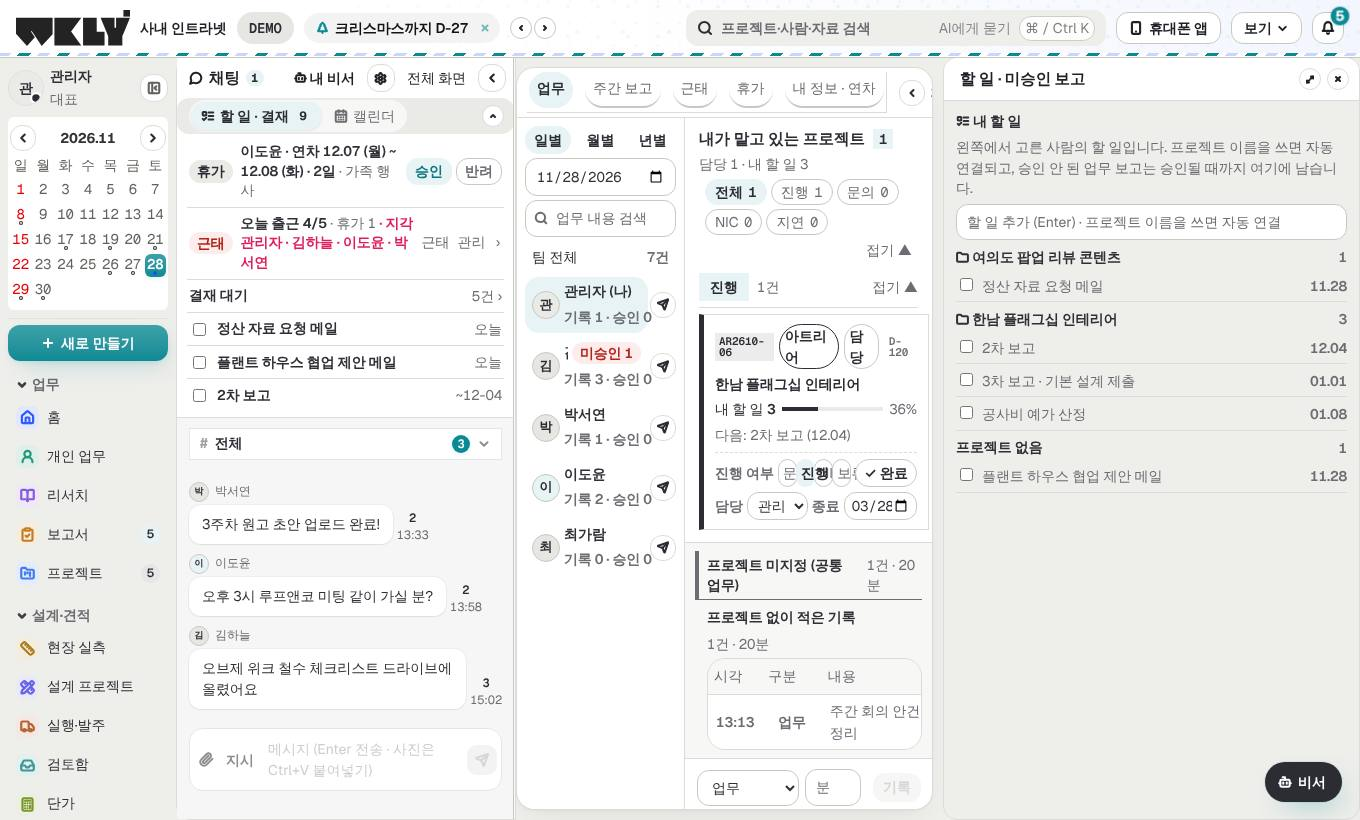
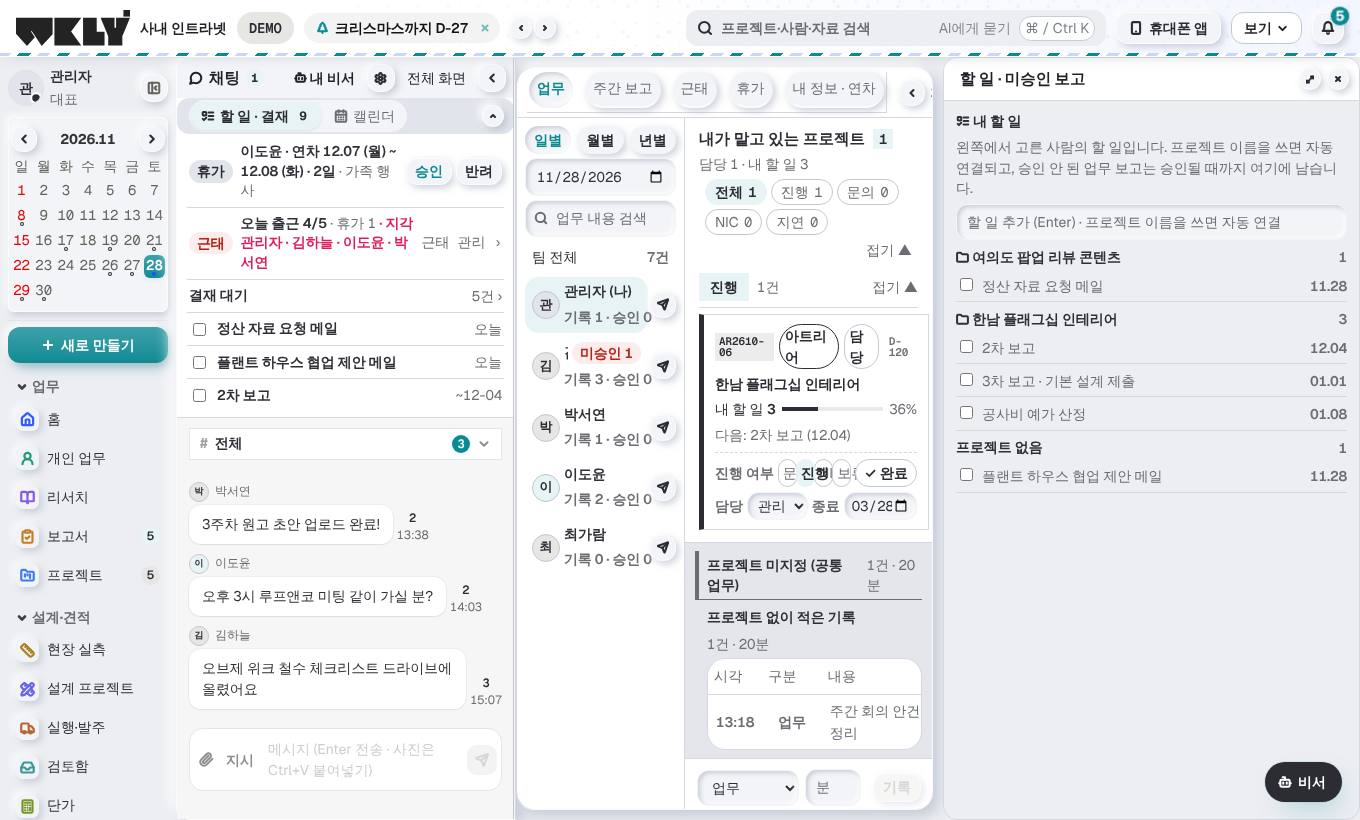
디자인 v9 볼록 · 오목: 빛과 그림자로 구분 · 구간 알약 · 스위치
- 카드 · 버튼은 떠 있는 모양, 입력 칸 · 고른 것은 눌린 모양 (--nm-up / --nm-in)
- 구간 고르기는 회색 홈 + 흰 알약, 켜고 끄는 설정은 스위치(nm-switch)
- 대시보드 점 격자 색 되살림, 사용 안내 사진 다시 찍음

Claude-Session: https://claude.ai/code/session_01F3gTQwJrgJEzSdbh5GAwru

diff --git a/erp/src/mono.css b/erp/src/mono.css
@@ -215,3 +215,68 @@ html:not([data-theme="dark"]) .ads-subnav button.active { background: var(--v9-a
 html:not([data-theme="dark"]) .ads-segment { gap: 2px; padding: 3px; border: 1px solid var(--v8-line-2); border-radius: 12px; background: var(--v8-bg); }
 html:not([data-theme="dark"]) .ads-segment button { border: 0 !important; border-radius: 9px; background: transparent; color: var(--tx-sub); min-height: 30px; }
 html:not([data-theme="dark"]) .ads-segment button:is(.active, .on, [aria-pressed="true"], [aria-selected="true"]) { background: var(--v9-accent) !important; color: #fff !important; box-shadow: var(--glow-1); }
+
+/* ================================================================================
+   볼록 · 오목 (뉴모피즘 · 대표가 2026-11-28 참고 그림으로 고름: 같은 회색 면 위에 밝은 빛(왼쪽 위) + 그림자(오른쪽 아래)로 떠 있거나 눌린 모양)
+   - 떠 있는 것(--nm-up): 카드 · 버튼 · 고른 탭.  눌린 것(--nm-in): 입력 칸 · 구간 고르기 홈 · 고른 칩 · 누르는 순간
+   - 면 색은 바탕과 거의 같게(--nm-face), 구분은 선 대신 빛과 그림자. 색은 메뉴 색(--v9-accent)을 작은 곳에만
+   ================================================================================ */
+html:not([data-theme="dark"]) {
+  --nm-bg: #eceef2; --nm-face: #f3f4f7; --nm-hi: rgba(255, 255, 255, .95); --nm-lo: rgba(158, 166, 184, .5);
+  --nm-up: 6px 6px 14px var(--nm-lo), -6px -6px 14px var(--nm-hi);
+  --nm-up-sm: 3px 3px 7px var(--nm-lo), -3px -3px 7px var(--nm-hi);
+  --nm-in: inset 3px 3px 6px var(--nm-lo), inset -3px -3px 6px var(--nm-hi);
+  --nm-in-sm: inset 2px 2px 4px var(--nm-lo), inset -2px -2px 4px var(--nm-hi);
+  --v8-bg: var(--nm-bg); --paper: #e4e6eb; --v8-line: #d5d8df; --v8-line-2: #c3c7d0; --v8-tint: #e1e4ea; --v8-hover: #e1e4ea;
+  --v8-shadow: var(--nm-up-sm); --yellow: #e1e4ea; --blue-tint: #e1e4ea;
+}
+html:not([data-theme="dark"]) body, html:not([data-theme="dark"]) .app-page { background: var(--nm-bg); }
+html:not([data-theme="dark"]) .app-page .topbar { background: var(--nm-bg); box-shadow: 0 6px 14px -8px var(--nm-lo); }
+html:not([data-theme="dark"]) .app-page :is(.main, .web-panel, .chat-dock) { background: var(--nm-face); border: 1px solid rgba(255, 255, 255, .7); box-shadow: var(--nm-up); }
+html:not([data-theme="dark"]) :is(.chat-dock-h, .right-sched, .right-tabs) { background: transparent; }
+/* 떠 있는 카드 */
+html:not([data-theme="dark"]) :is(.box, .stat, .kpi, .card, .home-kpi, .today-card, .checkin-card, .brief, .rd-box, .pc-card, .proj-card, .pboards-item, .week-day, .div-card, .ad-pcard, .dash-kpi, .dash-card, .mini-cal, .home-hero) { background: var(--nm-face) !important; border: 1px solid rgba(255, 255, 255, .7) !important; box-shadow: var(--nm-up-sm); }
+html:not([data-theme="dark"]) :is(.dash-kpi-l, .dash-kpi b, .dash-spark) { background: transparent; }
+html:not([data-theme="dark"]) .dash-body { background: var(--nm-face); border: 0; box-shadow: var(--nm-in-sm); }
+html:not([data-theme="dark"]) :is(a.home-kpi, a.dash-kpi, .pc-card, .pboards-item, .proj-card):hover { box-shadow: var(--nm-up); border-color: rgba(255, 255, 255, .7) !important; }
+html:not([data-theme="dark"]) :is(.dash-kpi.is-key, .week-day.today) { border-color: rgba(255, 255, 255, .7) !important; box-shadow: var(--nm-up-sm), 8px 10px 26px -10px color-mix(in srgb, var(--v9-accent) 55%, transparent); }
+/* 버튼: 떠 있다가 누르면 들어감 */
+html:not([data-theme="dark"]) :is(.btn, .icon-btn, .quick-btn, .chip, .ads-nav button.active, .dock-fold) { box-shadow: var(--nm-up-sm); border-color: rgba(255, 255, 255, .7) !important; }
+html:not([data-theme="dark"]) :is(.btn-outline, .btn-ghost, .icon-btn, .quick-btn, .chip):not(.active):not(.on) { background: var(--nm-face); color: var(--v9-ink); }
+html:not([data-theme="dark"]) :is(.btn, .icon-btn, .quick-btn, .chip):active { box-shadow: var(--nm-in-sm); transform: none; }
+html:not([data-theme="dark"]) :is(.btn-outline, .btn-ghost):hover:not(:disabled) { background: var(--nm-face); color: var(--v9-accent); }
+html:not([data-theme="dark"]) :is(.btn-primary, .new-btn, .today-ok, .btn.primary):not(:disabled) { box-shadow: var(--nm-up-sm), 4px 6px 16px -6px color-mix(in srgb, var(--v9-accent) 60%, transparent); }
+html:not([data-theme="dark"]) :is(.btn-blue, .btn-yellow, .send-btn):not(:disabled) { background: var(--nm-face); color: var(--v9-accent); }
+html:not([data-theme="dark"]) :is(.btn-blue, .btn-yellow, .send-btn):not(:disabled):hover { box-shadow: var(--nm-up-sm), 4px 6px 16px -6px color-mix(in srgb, var(--v9-accent) 60%, transparent); }
+/* 고른 것 · 입력 = 눌린 모양 */
+html:not([data-theme="dark"]) :is(.chip.active, .chip.on, .seg button.on, .right-tabs button.on, .ads-subnav button.active) { background: var(--nm-face) !important; box-shadow: var(--nm-in-sm) !important; color: var(--v9-accent) !important; border-color: transparent !important; }
+html:not([data-theme="dark"]) :is(.input, .select, .textarea, input[type="text"], input[type="search"], input[type="date"], input[type="number"], input[type="password"], input[type="email"], select, textarea) { background: var(--nm-face); border-color: transparent !important; box-shadow: var(--nm-in-sm); }
+html:not([data-theme="dark"]) :is(.ads-nav, .ads-segment) { background: var(--nm-face); border-color: transparent; box-shadow: var(--nm-in-sm); }
+html:not([data-theme="dark"]) .ads-nav button.active { background: var(--nm-face); }
+html:not([data-theme="dark"]) .ads-segment button:is(.active, .on) { box-shadow: var(--nm-up-sm), 3px 4px 10px -4px color-mix(in srgb, var(--v9-accent) 60%, transparent); }
+/* 왼쪽 메뉴 */
+html:not([data-theme="dark"]) .app-page .profile .side-item > svg { background: var(--nm-face); box-shadow: var(--nm-up-sm); }
+html:not([data-theme="dark"]) .app-page .profile .side-item.on { background: var(--nm-face); border-color: transparent; box-shadow: var(--nm-in-sm); }
+html:not([data-theme="dark"]) .app-page .profile .side-item.on > svg { background: var(--mc); box-shadow: 3px 4px 10px -3px color-mix(in srgb, var(--mc) 60%, transparent); }
+/* 표 · 줄 · 막대 */
+html:not([data-theme="dark"]) :is(.table, .board, .pay-grid) thead th { background: transparent; }
+html:not([data-theme="dark"]) :is(.table, .board) tbody tr:hover { background: #e4e7ed; }
+html:not([data-theme="dark"]) :is(.week-item, .dash-ev, .dash-d) { background: var(--nm-face); box-shadow: var(--nm-in-sm); }
+html:not([data-theme="dark"]) :is(.meter, .pc-bar, .dash-prog) { background: var(--nm-face); box-shadow: var(--nm-in-sm); }
+html:not([data-theme="dark"]) :is(.dialog, .modal, .top-menu-pop) { background: var(--nm-face); border: 1px solid rgba(255, 255, 255, .7); box-shadow: 14px 14px 34px var(--nm-lo), -10px -10px 28px var(--nm-hi); }
+html:not([data-theme="dark"]) .scrim { background: rgba(232, 234, 239, .6); }
+
+/* 흰 패널 참고 그림(2026-11-28 '이것도 넣어'): 구간 고르기 = 회색 홈 + 흰 알약 · 스위치 · 둥근 손잡이 */
+html:not([data-theme="dark"]) :is(.ads-segment, .seg, .right-tabs) { display: inline-flex; gap: 2px; padding: 3px; border: 0; border-radius: 999px; background: #dfe2e8; box-shadow: var(--nm-in-sm); }
+html:not([data-theme="dark"]) .right-tabs { display: flex; }
+html:not([data-theme="dark"]) :is(.ads-segment, .seg, .right-tabs) button { border: 0 !important; border-radius: 999px; background: transparent !important; color: var(--tx-sub) !important; box-shadow: none !important; }
+html:not([data-theme="dark"]) :is(.ads-segment, .seg, .right-tabs) button:is(.active, .on) { background: #fff !important; color: var(--v9-ink) !important; font-weight: 600; box-shadow: 1px 2px 5px rgba(120, 128, 148, .45) !important; }
+html:not([data-theme="dark"]) .dash-day { background: var(--nm-face); border-color: rgba(255, 255, 255, .7); box-shadow: var(--nm-up-sm); }
+/* 스위치: <input type="checkbox" class="nm-switch"> — 켜면 먹색 홈 + 흰 손잡이 */
+input[type="checkbox"].nm-switch { appearance: none; -webkit-appearance: none; position: relative; width: 44px; height: 24px; margin: 0; border: 0; border-radius: 999px; background: #dfe2e8; box-shadow: var(--nm-in-sm, inset 0 1px 3px rgba(0, 0, 0, .2)); cursor: pointer; vertical-align: middle; transition: background-color .2s ease; flex: none; }
+input[type="checkbox"].nm-switch::after { content: ''; position: absolute; top: 2px; left: 2px; width: 20px; height: 20px; border-radius: 50%; background: #fff; box-shadow: 1px 2px 5px rgba(120, 128, 148, .55); transition: transform .2s ease; }
+input[type="checkbox"].nm-switch:checked { background: var(--v9-ink, #2b2d33); }
+input[type="checkbox"].nm-switch:checked::after { transform: translateX(20px); }
+input[type="checkbox"].nm-switch:focus-visible { outline: 2px solid var(--v9-accent); outline-offset: 2px; }
+/* 둥근 단추(아이콘) = 손잡이처럼 */
+html:not([data-theme="dark"]) .icon-btn { border-radius: 50%; }

diff --git a/erp/src/components/CollabSection.tsx b/erp/src/components/CollabSection.tsx
@@ -327,7 +327,7 @@ function StaffBoards({ room, project }: { room: CollabRoom; project: Project }) 
             return (
               <li key={b.id} className={sh ? 'on' : ''}>
                 <label className="cl-board-pick">
-                  <input type="checkbox" checked={!!sh} disabled={busy === b.id || !!room.closed_at} onChange={e => void set(b.id, e.target.checked, sh?.can_edit ?? true)} />
+                  <input type="checkbox" className="nm-switch" checked={!!sh} disabled={busy === b.id || !!room.closed_at} onChange={e => void set(b.id, e.target.checked, sh?.can_edit ?? true)} />
                   <b>{b.title}</b>
                   <span className="t-cap">요소 {b.count ?? 0}개</span>
                 </label>
@@ -813,7 +813,7 @@ function InviteModal({ room, onClose, onDone }: { room: CollabRoom; onClose: () 
         ))}
       </div>
       <label className="row gap-6 cl-pick">
-        <input type="checkbox" checked={v.can_upload} onChange={e => setV({ ...v, can_upload: e.target.checked })} />
+        <input type="checkbox" className="nm-switch" checked={v.can_upload} onChange={e => setV({ ...v, can_upload: e.target.checked })} />
         <span className="t-small">파일 올리기 허용 (드라이브 방 폴더로 들어감)</span>
       </label>
       <p className="t-cap cl-note">링크는 다음 화면에서 한 번만 보입니다. 14일 안에 처음 연 기기 한 대에서만 열리니, 팀원이 직접 눌러 확인하지 마세요.</p>
@@ -915,7 +915,7 @@ function GuestModal({ guest, onClose, onDone }: { guest: CollabGuest; onClose: (
           <input className="input" type="date" value={v.expires} onChange={e => setV({ ...v, expires: e.target.value })} />
         </Field>
         <label className="row gap-6 cl-pick">
-          <input type="checkbox" checked={v.can_upload} onChange={e => setV({ ...v, can_upload: e.target.checked })} />
+          <input type="checkbox" className="nm-switch" checked={v.can_upload} onChange={e => setV({ ...v, can_upload: e.target.checked })} />
           <span className="t-small">파일 올리기 허용</span>
         </label>
       </div>

diff --git a/erp/src/components/InterviewQuestionBank.tsx b/erp/src/components/InterviewQuestionBank.tsx
@@ -85,7 +85,7 @@ export function InterviewQuestionBank() {
         <div className="checks full">
           <label><input type="checkbox" checked={d.required} onChange={e => set({ required: e.target.checked })} /> 필수 문항</label>
           <label><input type="checkbox" checked={d.is_default} onChange={e => set({ is_default: e.target.checked })} /> 이 자리의 기본 문안</label>
-          <label><input type="checkbox" checked={d.active} onChange={e => set({ active: e.target.checked })} /> 사용</label>
+          <label><input type="checkbox" className="nm-switch" checked={d.active} onChange={e => set({ active: e.target.checked })} /> 사용</label>
         </div>
         <div className="sales-iv-actions full">
           <Button size="sm" disabled={busy} onClick={() => void save()}>저장</Button>

diff --git a/erp/src/components/AiTeam.tsx b/erp/src/components/AiTeam.tsx
@@ -359,7 +359,7 @@ function AgentEditor({ agent, conf, onClose, onSaved }: { agent?: Profile; conf?
       </Field>
       {agent && (
         <label className="row gap-6 t-small">
-          <input type="checkbox" checked={f.active} onChange={e => setF({ ...f, active: e.target.checked })} /> 사용 (끄면 채팅 · 지시 · 예약이 멈춤)
+          <input type="checkbox" className="nm-switch" checked={f.active} onChange={e => setF({ ...f, active: e.target.checked })} /> 사용 (끄면 채팅 · 지시 · 예약이 멈춤)
         </label>
       )}
       <span className="t-cap">AI 는 메일을 보내지 않고, 결제 · 금액 · 개인정보 규칙은 지침으로 바꿀 수 없습니다.</span>

diff --git a/erp/src/components/Accounting.tsx b/erp/src/components/Accounting.tsx
@@ -392,7 +392,7 @@ function SettingsForm({ s, onSaved }: { s: AcctSettings; onSaved: () => Promise<
           <input type="checkbox" checked={v.has_daily_workers} onChange={e => set({ has_daily_workers: e.target.checked })} /> 일용 근로자 지급
         </label>
         <label className="acct-check">
-          <input type="checkbox" checked={v.alerts} onChange={e => set({ alerts: e.target.checked })} /> 대표에게 기한 알림
+          <input type="checkbox" className="nm-switch" checked={v.alerts} onChange={e => set({ alerts: e.target.checked })} /> 대표에게 기한 알림
         </label>
       </div>
       {s.note && <p className="acct-sub">메모: {s.note}</p>}

diff --git a/CLAUDE.md b/CLAUDE.md
@@ -112,7 +112,7 @@ Codex 공동 개발은 끝났다(2026-11-16 종료 · 2026-11-20 대표 지시 '
   - `src/styles.css` : 디자인 토큰 · WKLY v7 디자인 시스템 (사각 모서리, 글자 크기 단계 `--fs-cap 12 · sm 12.5 · body 13.5 · sub 14.5 · title 16 · num 19 · hero 28` (2026-11-09 위계 다시 잡음 · 맨 아래 :root 가 최종값 · 터치 화면은 반 단계 큼))
   - (아래 글자 위계의 굵기 800 · 700 은 2026-11-28 디자인 v9 에서 700 · 600 으로, 색 값은 mono.css 토큰으로 바뀜 — 크기 3단계 · px 직접 쓰지 않기 규칙은 그대로)
   - **글자 위계 (2026-11-17 대표 지시 '전체 공통사항 · 글자 크기는 타이틀 · 본문 · 강조 3가지만 · 색 구분과 볼드 규칙') — 새 화면도 반드시 지킬 것**: `src/type.css` 를 main.tsx 맨 끝에서 읽어 앞의 모든 단계를 덮어씀. 크기 3개 = 타이틀 `--t-title` 18px(제목 · 큰 숫자) · 강조 `--t-em` 15.5px(소제목 · 이름 줄) · 본문 `--t-body` 14px(나머지 전부 — 날짜 · 메타 · 배지 포함, 터치 화면 18.5/16/15) · 예전 토큰은 cap/sm/small/body → 본문, sub → 강조, title/num/hero → 타이틀로 이어짐. CSS 에 px 글자 크기를 새로 쓰지 말고 var(--fs-body | --fs-sub | --fs-title) 만 쓸 것(2026-11-17 에 94곳 바꿈 · 예외는 알림 숫자 동그라미 .side-n · .q2-badge · .bell .count 12px). 굵기 3개 = 800 타이틀 · 700 강조 · 400 본문(500 · 600 · 650 · 750 안 씀 · 76곳 바꿈). 색 = --tx-title #151d18 · --tx-body #222a25 · --tx-sub #535c56(보조는 크기 대신 색으로 낮춤 · --gray 도 이 색) · --tx-key #1f6b4a(누를 수 있는 것 · 고른 것) · 빨강은 지연 · 경고만. 묶음 클래스 .tx-title · .tx-em · .tx-body · .tx-sub · .tx-key. 차트 SVG 글자(charts.tsx 등)는 그대로
-  - **디자인 v9 모노톤 + 네온 빛 (2026-11-28 대표가 핀터레스트 참고 화면 넷을 골라 '이것들을 조합해서 디자인잡아 · 인트라넷 디자인 전체를 변경해 · 모노톤과 네온 효과' → '남은 화면들도 모노톤으로 · 폰트와 디자인규칙까지 모두 변경해 · 대시보드또한 디자인 배치 다시' · '색은 첨부이미지와 같이 네온 효과' · '빛이 새어나가는 효과를 잘 만들어') — 규칙 문서 `erp/docs/DESIGN_V9.md` · 새 화면도 반드시 이 규칙**: `src/mono.css`(main.tsx 맨 끝)가 토큰을 정함. ① 색 = 회색 계열 하나(바탕 #f0f0ee · 흰 카드 · 먹색 #141414 = 고른 것 · 막대) + 네온 파랑 `--v9-accent` #1f4dff 하나 · 빨강 · 노랑은 지연 · 경고만 · 초록 점은 '정상'만 ② 네온 = 가장자리에서 오른쪽 아래로 새어 나가는 파랑 빛 `--glow-1/2/3` · `--neon-soft` — 주 버튼 · 고른 것 · 오늘 · 가장 중요한 숫자 하나 · 누를 수 있는 카드 hover 에만, 글자색으로는 안 씀 ③ 글꼴 = 영문 · 숫자 Geist · 한글 Pretendard · 큰 숫자 · 연번 Geist Mono(구글 폰트 · index.html) · 크기 18 / 15.5 / 14 그대로 + 큰 숫자 `--t-num` 24 · **굵기 700 / 600 / 400**(예전 800 / 700 을 CSS 전체에서 한 단계씩 내림) ④ 모서리 카드 14 · 버튼 10 · 알약 ⑤ 카드 틀 = 회색 머리 + 흰 본문. 같은 날 **모든 CSS 의 굳은 색을 회색으로 바꿈**(초록 · 미색 · 보라 → 같은 밝기 회색 · 파랑 → `--v9-accent` / `-tint` · '화면 어둡게' 규칙 줄은 그대로 · 빨강 · 주황 · 노랑은 그대로) — **새 CSS 에 색 값을 직접 쓰지 말고 토큰을 쓸 것.** 구분 색은 `--div-ar/tw/rs`(먹색 · 회색 · 연회색) · 달력 내 업무는 네온 파랑. 홈 대시보드 새 배치(`pages/Dashboard.tsx` · `.css`): 인사 + 주 버튼 → 숫자 카드 넷(작은 막대 · 아래 설명 줄 · 첫 카드에 빛) → '업무 흐름' 점 격자(지난 2주 끝낸 일 · 앞으로 2주 마감 · 오늘 기둥에 빛 · `lib/dashboard.ts` dayFlow) + 팀원 세로 막대 → 마감이 가까운 프로젝트 표(진행 막대 · 상태 알약) → 앞으로 7일 · 구분별 → 진행 프로젝트 카드. 같은 날 2차 '부드럽게'(대표 '아직 안 바꾼 곳들도 모두 모노톤으로' · '디자인 ui,ux도 바꿔 · 색상의 사용도 수정하고 · 부드러운 느낌'): 새까만 색 대신 부드러운 먹색 `--v9-ink` #2b2d33 · 고른 것은 검은 알약 대신 연한 파랑 바탕 · 자주 누르는 버튼(.btn-blue 등)은 연한 파랑 · 테두리 대신 옅은 그림자 · 카드 18 / 버튼 12 · **styles.css 의 '모든 모서리 0 !important' 고정을 없앰(다시 넣지 말 것)** · 빛은 테 없이 넓게 · 0.2초 전환 · 창 뒤 뿌옇게. 차트(LedgerStats · MarketingFlow) · 화이트보드(미니맵 · 커서 · Excalidraw 색) · 설계(제안 보드 견본 색 · 3D 바닥 · 도면 바탕) · 기념일 장식 띠 · PC 오프라인 화면(desktop/offline.html — 다음 PC 프로그램 릴리스 때 반영)도 회색 + 네온 파랑. 그대로 둔 것: 실제 자재 색(3D · 마감재) · 거래처에 나가는 것(제안서 슬라이드 · 영업 메일 · 카드뉴스 · 광고 이미지). 같은 날 3차 '선명하게 · 메뉴마다 다른 색'(대표 '광고 화면 기간 고르기 칸과 묶음 탭도 고쳐 · 아이콘과 배경들 각각의 카드들의 선구분을 선명하게 · 색은 각 메뉴마다 다른 색' · 참고 Product UI Styleguide): **강조색 `--v9-accent` 는 메뉴마다 다름**(`lib/menuColors.ts` · Shell 이 지금 메뉴 색을 html 에 넣음 · 빛 · 연한 바탕 · 주 버튼은 color-mix 로 계산 — CSS 에 파랑을 직접 쓰지 말 것 · 새 메뉴는 색 한 줄 추가) · 왼쪽 메뉴 아이콘은 메뉴 색 칸 · 카드는 흰 바탕 + 1px 선 #dbdbd7 + 옅은 그림자(바탕 #eeeeeb) · 광고 묶음 탭 = 홈 안의 흰 카드 · 기간 고르기 = 알약. 사용 안내 사진 13장 · 영상 3개 다시 찍음 · 안내 글(guides.ts 두 곳)의 홈 · 할 일(/my) · 일정(/projects?view=calendar)을 새 구조에 맞춤(agent-chat 쪽은 다음 배포 때 반영).
+  - **디자인 v9 모노톤 + 네온 빛 (2026-11-28 대표가 핀터레스트 참고 화면 넷을 골라 '이것들을 조합해서 디자인잡아 · 인트라넷 디자인 전체를 변경해 · 모노톤과 네온 효과' → '남은 화면들도 모노톤으로 · 폰트와 디자인규칙까지 모두 변경해 · 대시보드또한 디자인 배치 다시' · '색은 첨부이미지와 같이 네온 효과' · '빛이 새어나가는 효과를 잘 만들어') — 규칙 문서 `erp/docs/DESIGN_V9.md` · 새 화면도 반드시 이 규칙**: `src/mono.css`(main.tsx 맨 끝)가 토큰을 정함. ① 색 = 회색 계열 하나(바탕 #f0f0ee · 흰 카드 · 먹색 #141414 = 고른 것 · 막대) + 네온 파랑 `--v9-accent` #1f4dff 하나 · 빨강 · 노랑은 지연 · 경고만 · 초록 점은 '정상'만 ② 네온 = 가장자리에서 오른쪽 아래로 새어 나가는 파랑 빛 `--glow-1/2/3` · `--neon-soft` — 주 버튼 · 고른 것 · 오늘 · 가장 중요한 숫자 하나 · 누를 수 있는 카드 hover 에만, 글자색으로는 안 씀 ③ 글꼴 = 영문 · 숫자 Geist · 한글 Pretendard · 큰 숫자 · 연번 Geist Mono(구글 폰트 · index.html) · 크기 18 / 15.5 / 14 그대로 + 큰 숫자 `--t-num` 24 · **굵기 700 / 600 / 400**(예전 800 / 700 을 CSS 전체에서 한 단계씩 내림) ④ 모서리 카드 14 · 버튼 10 · 알약 ⑤ 카드 틀 = 회색 머리 + 흰 본문. 같은 날 **모든 CSS 의 굳은 색을 회색으로 바꿈**(초록 · 미색 · 보라 → 같은 밝기 회색 · 파랑 → `--v9-accent` / `-tint` · '화면 어둡게' 규칙 줄은 그대로 · 빨강 · 주황 · 노랑은 그대로) — **새 CSS 에 색 값을 직접 쓰지 말고 토큰을 쓸 것.** 구분 색은 `--div-ar/tw/rs`(먹색 · 회색 · 연회색) · 달력 내 업무는 네온 파랑. 홈 대시보드 새 배치(`pages/Dashboard.tsx` · `.css`): 인사 + 주 버튼 → 숫자 카드 넷(작은 막대 · 아래 설명 줄 · 첫 카드에 빛) → '업무 흐름' 점 격자(지난 2주 끝낸 일 · 앞으로 2주 마감 · 오늘 기둥에 빛 · `lib/dashboard.ts` dayFlow) + 팀원 세로 막대 → 마감이 가까운 프로젝트 표(진행 막대 · 상태 알약) → 앞으로 7일 · 구분별 → 진행 프로젝트 카드. 같은 날 2차 '부드럽게'(대표 '아직 안 바꾼 곳들도 모두 모노톤으로' · '디자인 ui,ux도 바꿔 · 색상의 사용도 수정하고 · 부드러운 느낌'): 새까만 색 대신 부드러운 먹색 `--v9-ink` #2b2d33 · 고른 것은 검은 알약 대신 연한 파랑 바탕 · 자주 누르는 버튼(.btn-blue 등)은 연한 파랑 · 테두리 대신 옅은 그림자 · 카드 18 / 버튼 12 · **styles.css 의 '모든 모서리 0 !important' 고정을 없앰(다시 넣지 말 것)** · 빛은 테 없이 넓게 · 0.2초 전환 · 창 뒤 뿌옇게. 차트(LedgerStats · MarketingFlow) · 화이트보드(미니맵 · 커서 · Excalidraw 색) · 설계(제안 보드 견본 색 · 3D 바닥 · 도면 바탕) · 기념일 장식 띠 · PC 오프라인 화면(desktop/offline.html — 다음 PC 프로그램 릴리스 때 반영)도 회색 + 네온 파랑. 그대로 둔 것: 실제 자재 색(3D · 마감재) · 거래처에 나가는 것(제안서 슬라이드 · 영업 메일 · 카드뉴스 · 광고 이미지). 같은 날 3차 '선명하게 · 메뉴마다 다른 색'(대표 '광고 화면 기간 고르기 칸과 묶음 탭도 고쳐 · 아이콘과 배경들 각각의 카드들의 선구분을 선명하게 · 색은 각 메뉴마다 다른 색' · 참고 Product UI Styleguide): **강조색 `--v9-accent` 는 메뉴마다 다름**(`lib/menuColors.ts` · Shell 이 지금 메뉴 색을 html 에 넣음 · 빛 · 연한 바탕 · 주 버튼은 color-mix 로 계산 — CSS 에 파랑을 직접 쓰지 말 것 · 새 메뉴는 색 한 줄 추가) · 왼쪽 메뉴 아이콘은 메뉴 색 칸 · 카드는 흰 바탕 + 1px 선 #dbdbd7 + 옅은 그림자(바탕 #eeeeeb) · 광고 묶음 탭 = 홈 안의 흰 카드 · 기간 고르기 = 알약. 같은 날 4차 '볼록 · 오목'(대표가 뉴모피즘 참고 그림 두 장을 보내 '이 ui도 사용해' · '이것도 넣어'): 면은 바탕과 거의 같은 밝은 회색 · 구분은 왼쪽 위 빛 + 오른쪽 아래 그림자(`--nm-up` 떠 있음 = 카드 · 버튼 / `--nm-in` 눌림 = 입력 칸 · 고른 칩 · 고른 메뉴 줄) · 구간 고르기는 회색 홈 + 흰 알약 · 켜고 끄는 설정은 체크박스에 className `nm-switch`(스위치 모양). 사용 안내 사진 13장 · 영상 3개 다시 찍음 · 안내 글(guides.ts 두 곳)의 홈 · 할 일(/my) · 일정(/projects?view=calendar)을 새 구조에 맞춤(agent-chat 쪽은 다음 배포 때 반영).
   - 디자인 v8 (2026-11-16 대표 지시 '인트라넷 디자인 개선해' · Houzz Pro 스타일 계획 문서 1단계): `src/refresh.css` 를 main.tsx 맨 끝에서 읽음 — 따뜻한 미색 바탕(#f6f4ef) · 흰 작업 칸 · 둥근 모서리(카드 12 · 버튼·입력 8 · 태그 알약, v7 의 '모두 사각'을 덮어씀) · 흰 위쪽 바(초록 로고) · 테두리 없는 메뉴(고른 줄 흰 칸) · 밑줄 탭 · 가로선만 표 · 연한 배지 · 글꼴 Pretendard(jsdelivr · 무료) + 숫자도 같은 글꼴 고정폭. 색은 `html:not([data-theme=dark])` 에만 → '화면 어둡게'는 그대로. 새 화면은 --v8-* 토큰을 쓸 것. import 한 줄을 빼면 v7 로 돌아감
   - 실행 내역 엑셀 읽기 (2026-11-17 대표 우선순위 3 '실제 프로젝트로 검증'): `lib/designCost.ts` parseCostSheet 가 회사 '실행집행 내역서' 양식(구분 · 견적 항목 · 실행 내역 · 단위 · 수량 · 실행 단가 · 실행 금액 · 발주처 · 근거·확인)도 읽음 — 품목 = 실행 내역, 구분 · 견적 항목은 아래 줄로 이어 씀(견적 항목은 비고 앞 [ ]), 단위 저장, 발주처 '미정 · 내부 · —'는 업체 없음. 예전엔 '실행 단가' 머리 줄을 못 알아봐 '실행 내역을 찾지 못했습니다'가 났음. 시험 tests/design-cost.test.ts. 11/17 로제코(AR2610-08) 설계 프로젝트에 실물 60줄 · 49,703,600원 넣어 확인(openpyxl 계산과 일치 · 견적 공급가 6,000만 대비 실행 82.8%). 조달청 물가 기준은 이 견적처럼 인건비(인) · 식 단위가 많으면 0/60 매칭 → 시중노임단가 기준이 다음 과제
   - 사진 카드 (2026-11-17 대표 우선순위 1 'Houzz Pro 식 화면 개편'): 프로젝트 카드(홈 · 프로젝트 '카드' 보기 · `components/ProjectCards.tsx`) 맨 위 16:10 대표 사진 + 사진 위 구분 알약 · 남은 기간, 사진 없으면 구분 색 바탕에 연번. 프로젝트 상세 머리 아래 표지 사진(`ProjectCoverBanner` · 사진 있을 때만). 홈 숫자 카드 4개 왼쪽 아이콘 타일. 사진은 서버 함수 `project-covers`(verify_jwt false · x-sync-key = GDRIVE_SYNC_KEY · 10분마다 cron project_covers → private.project_covers_tick)가 drive_index 사진 중 하나를 골라(`project-covers/cover.ts` pickCover: 준공 · 촬영 > 투시도 · 렌더 · 성과물 그래픽 > 현장 사진(상권조사 제외) > 컨셉 · 시안 > 기타 · 계약 · 견적 · 통장 · 명함 · 캡처 · 로고 · 슬랙 · 카톡 제외 · 60KB 이상) 드라이브 미리보기(긴 변 800px)만 비공개 보관함 project-covers 에 넣음 · 표 public.project_covers(활성 팀원 읽기 · 쓰기는 서버만 · source auto|manual · 자동은 3일마다 다시 고름) · api.projectCovers()(서명 주소 1시간 · signedUrlCache) · 체험 모드는 사진 없음. 20261117201000_project_covers. 시험 `npm run test:covers`

diff --git a/erp/docs/DESIGN_V9.md b/erp/docs/DESIGN_V9.md
@@ -65,3 +65,11 @@
 - 왼쪽 메뉴 아이콘은 그 메뉴 색의 작은 칸 안에(고른 줄은 색을 채운 칸 + 흰 아이콘).
 - 카드는 흰 바탕 + 또렷한 1px 선(`--v8-line` #dbdbd7) + 옅은 그림자, 바탕은 #eeeeeb — 카드끼리 경계가 분명해야 한다.
 - 구간 고르기(광고 조회 기간 등)는 둥근 홈 안의 알약: 고른 칸은 메뉴 색 + 흰 글자. 묶음 탭은 홈 안의 흰 카드.
+
+## 볼록 · 오목 (2026-11-28 대표가 참고 그림 두 장으로 고름 — 뉴모피즘)
+
+- 면은 바탕과 거의 같은 밝은 회색(`--nm-bg` · `--nm-face`), 구분은 선이 아니라 **왼쪽 위 밝은 빛 + 오른쪽 아래 그림자**.
+- 떠 있는 것 `--nm-up` / `--nm-up-sm`: 카드 · 버튼 · 고른 탭 알약. 눌린 것 `--nm-in` / `--nm-in-sm`: 입력 칸 · 구간 고르기 홈 · 고른 칩 · 고른 메뉴 줄 · 누르는 순간.
+- 구간 고르기(.ads-segment · .seg · .right-tabs)는 회색 홈 + 흰 알약(고른 것).
+- 켜고 끄는 설정은 `<input type="checkbox" className="nm-switch">`(켜면 먹색 홈 + 흰 손잡이). 여러 개를 고르는 목록 · 할 일 완료 칸은 네모 체크 그대로.
+- 색은 메뉴 색(`--v9-accent`)을 작은 곳(아이콘 칸 · 주 버튼 · 고른 글자 · 오늘)에만.
